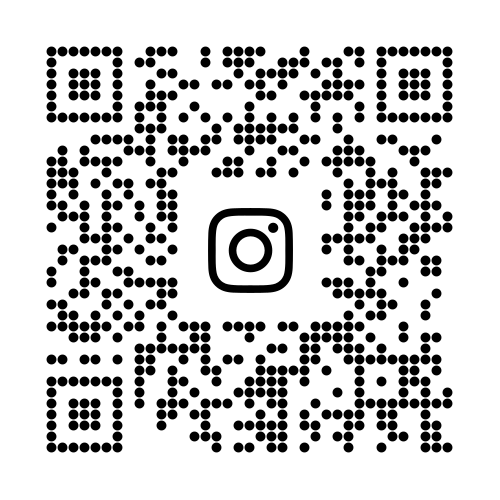
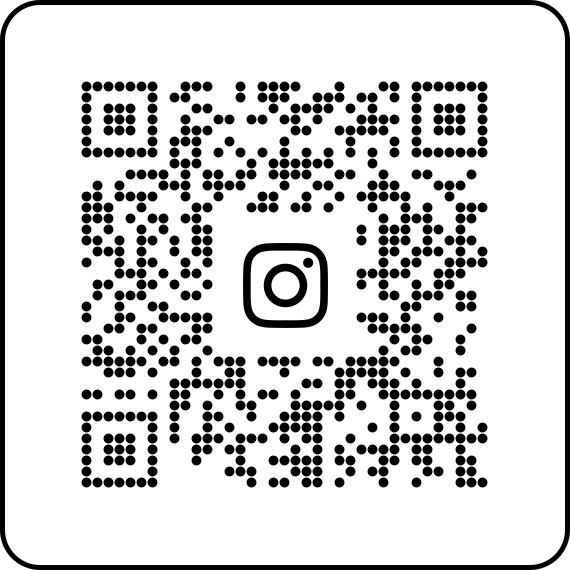
update

diff --git a/generate-qr-codes.js b/generate-qr-codes.js
@@ -18,6 +18,10 @@ const QR_CODES_DIR = path.join(__dirname, 'static', 'qr-codes');
 const LOGO_SIZE_PERCENTAGE = 0.17; // Logo size as a percentage of QR code size
 const USE_LOGO = true; // Set to false to disable the logo in the center of QR codes
 const QR_CODES_JSON = path.join(QR_CODES_DIR, 'qr-codes.json');
+const BORDER_WIDTH = 5; // Width of the border in pixels
+const BORDER_PADDING = 30; // Padding between QR code and border in pixels
+const BORDER_RADIUS = 40; // Radius of the rounded corners in pixels
+const BORDER_COLOR = '#000000'; // Border color (black)
 
 // Load QR code data from JSON file if it exists
 let qrCodesData = [];
@@ -146,13 +150,36 @@ async function generateArtisticQRCode(url, outputPath, logoSvg) {
         .resize(logoSize, logoSize)
         .toFile(tempLogoPngPath);
       
-      // Composite the logo onto the QR code
-      await sharp(tempQrPngPath)
+      // Create a QR code with logo
+      const qrWithLogo = await sharp(tempQrPngPath)
         .composite([
           {
             input: tempLogoPngPath,
             top: logoPosition,
             left: logoPosition
+          }
+        ])
+        .toBuffer();
+        
+      // Create a new image with border and padding
+      const totalPadding = BORDER_PADDING * 2; // Padding on all sides
+      const finalSize = QR_SIZE + totalPadding + (BORDER_WIDTH * 2);
+      const innerSize = QR_SIZE + totalPadding;
+      
+      const finalImage = Buffer.from(
+        `<svg width="${finalSize}" height="${finalSize}" viewBox="0 0 ${finalSize} ${finalSize}" xmlns="http://www.w3.org/2000/svg">
+          <rect x="0" y="0" width="${finalSize}" height="${finalSize}" rx="${BORDER_RADIUS}" ry="${BORDER_RADIUS}" fill="${BORDER_COLOR}"/>
+          <rect x="${BORDER_WIDTH}" y="${BORDER_WIDTH}" width="${innerSize}" height="${innerSize}" rx="${BORDER_RADIUS - BORDER_WIDTH}" ry="${BORDER_RADIUS - BORDER_WIDTH}" fill="white"/>
+        </svg>`
+      );
+      
+      // Composite the QR code with logo onto the bordered background
+      await sharp(finalImage)
+        .composite([
+          {
+            input: qrWithLogo,
+            top: BORDER_WIDTH + BORDER_PADDING,
+            left: BORDER_WIDTH + BORDER_PADDING
           }
         ])
         .toFile(outputPath);
@@ -161,8 +188,29 @@ async function generateArtisticQRCode(url, outputPath, logoSvg) {
       fs.unlinkSync(tempLogoSvgPath);
       fs.unlinkSync(tempLogoPngPath);
     } else {
-      // If no logo is used, just rename the temp file to the output file
-      fs.renameSync(tempQrPngPath, outputPath);
+      // If no logo is used, add a border to the QR code
+      // Create a new image with border and padding
+      const totalPadding = BORDER_PADDING * 2; // Padding on all sides
+      const finalSize = QR_SIZE + totalPadding + (BORDER_WIDTH * 2);
+      const innerSize = QR_SIZE + totalPadding;
+      
+      const finalImage = Buffer.from(
+        `<svg width="${finalSize}" height="${finalSize}" viewBox="0 0 ${finalSize} ${finalSize}" xmlns="http://www.w3.org/2000/svg">
+          <rect x="0" y="0" width="${finalSize}" height="${finalSize}" rx="${BORDER_RADIUS}" ry="${BORDER_RADIUS}" fill="${BORDER_COLOR}"/>
+          <rect x="${BORDER_WIDTH}" y="${BORDER_WIDTH}" width="${innerSize}" height="${innerSize}" rx="${BORDER_RADIUS - BORDER_WIDTH}" ry="${BORDER_RADIUS - BORDER_WIDTH}" fill="white"/>
+        </svg>`
+      );
+      
+      // Composite the QR code onto the bordered background
+      await sharp(finalImage)
+        .composite([
+          {
+            input: tempQrPngPath,
+            top: BORDER_WIDTH + BORDER_PADDING,
+            left: BORDER_WIDTH + BORDER_PADDING
+          }
+        ])
+        .toFile(outputPath);
     }
     
     // Remove temporary files
